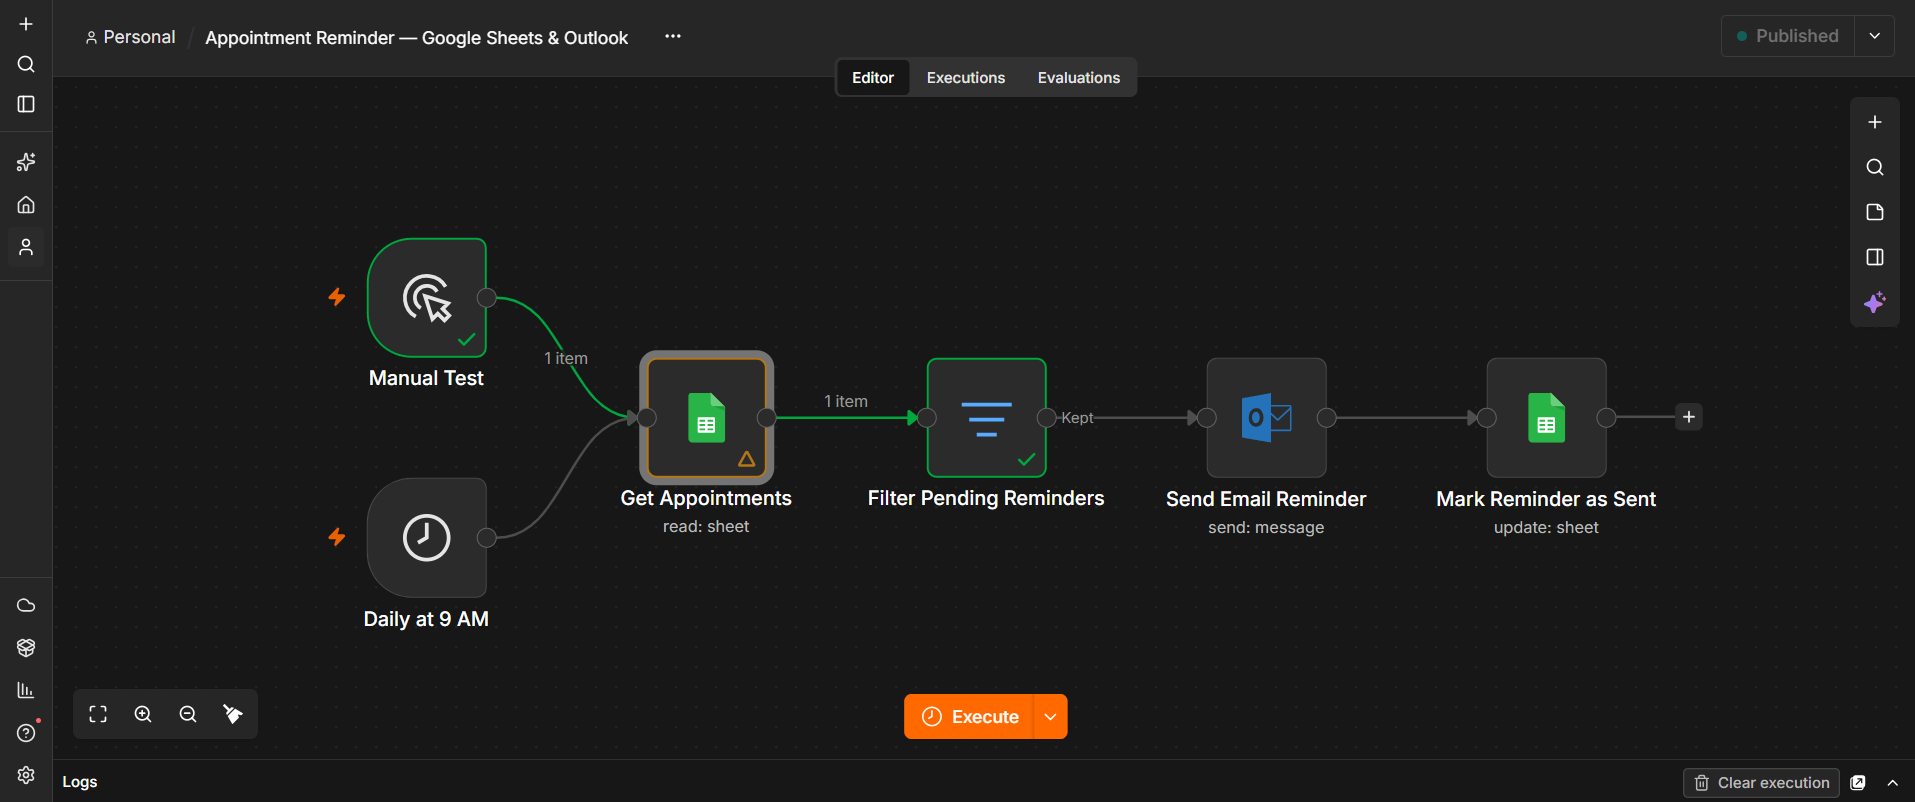
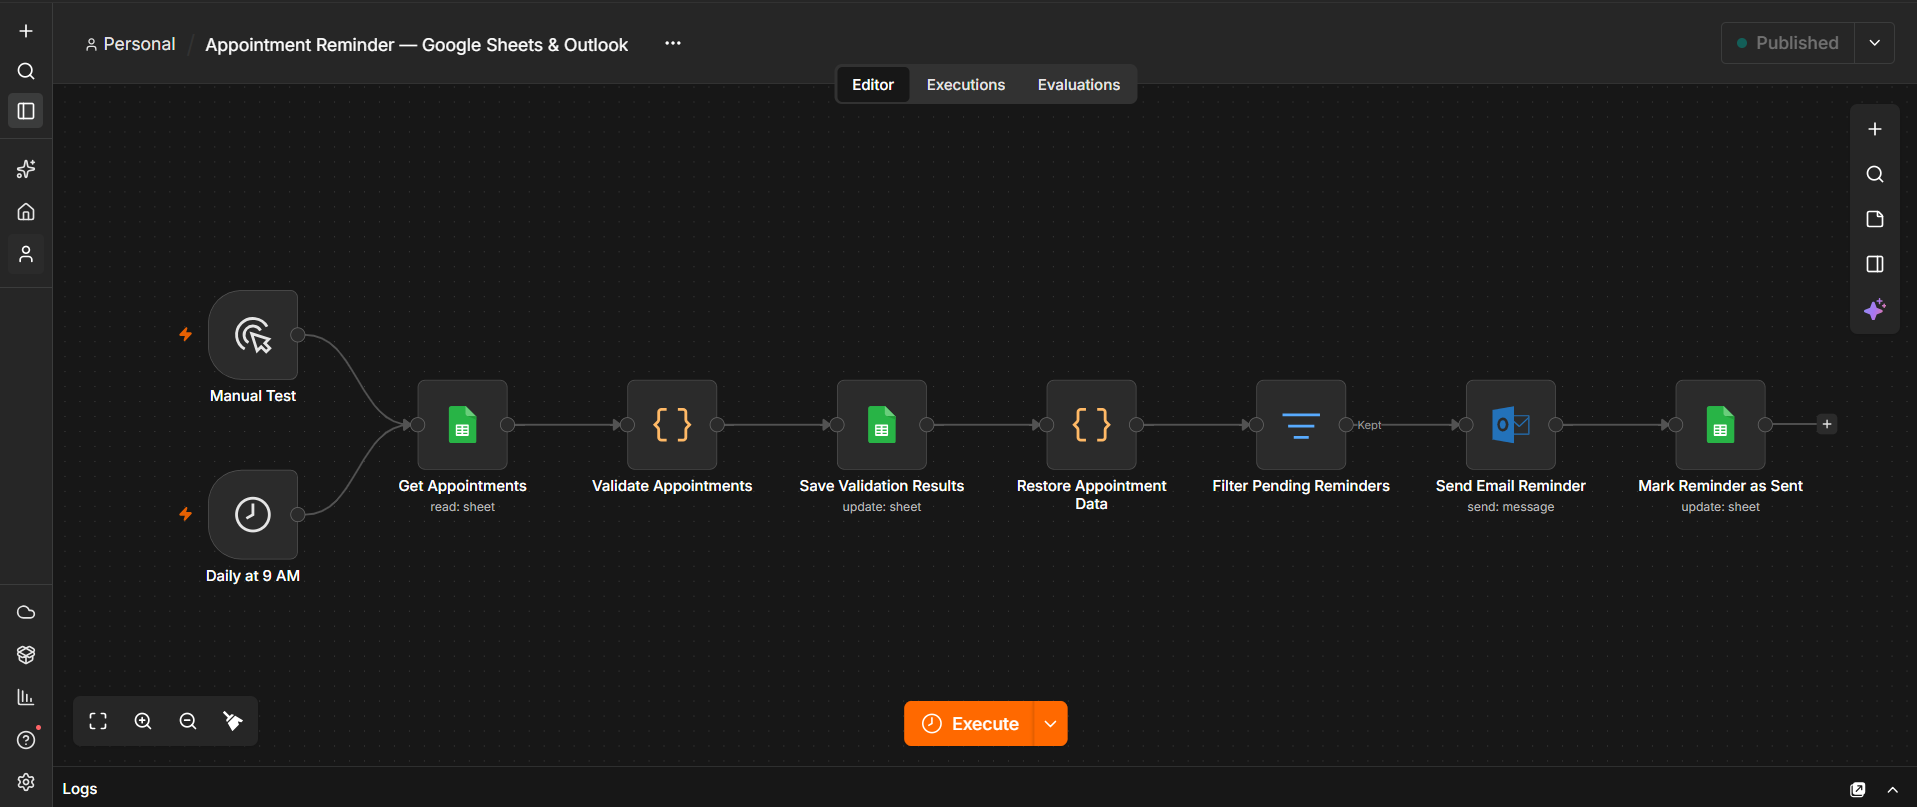
Update workflows, validation docs and screenshots

diff --git a/README.md b/README.md
@@ -1,54 +1,85 @@
 # Appointment Reminder
 
+Appointment reminder automation built with **n8n, Google Sheets and Microsoft Outlook**. Portfolio project with input validation, spreadsheet diagnostics and a separate error notification workflow.
+
 ## Business problem
 
-Appointment-based businesses often send reminders manually, which takes time and can lead to missed follow-ups.
-
-This project automates next-day email reminders and records their status in Google Sheets, reducing manual work and helping clients remember their appointments.
-
-Appointment reminder automation built with **n8n, Google Sheets and Microsoft Outlook**. Designed for appointment-based businesses such as salons and barbershops.
+Appointment-based businesses often send reminders manually. This workflow checks next-day appointments, sends personalized emails and records their status to reduce repetitive work.
 
 ## How it works
 
-1. Runs every day at **09:00 Europe/Dublin**, or manually for testing.
+1. Runs manually or daily at **09:00 Europe/Dublin**.
 2. Reads appointments from Google Sheets.
-3. Keeps rows where the appointment is tomorrow **AND** `reminder_sent` is `NO`.
-4. Sends a personalized email through Outlook.
-5. Matches the row by `appointment_id` and changes only `reminder_sent` to `YES`.
-6. 
+3. Validates IDs, email syntax and calendar dates; flags every occurrence of a duplicate ID.
+4. Saves `VALID`/`INVALID` and error details to the original spreadsheet row.
+5. Restores full appointment data using n8n item linking.
+6. Keeps appointments for tomorrow with `reminder_sent = NO` and `validation_valid = true`, using AND.
+7. Sends an Outlook reminder and marks the appointment `YES` by its unique ID.
+
+Invalid data is recorded and filtered out; it does not deliberately fail the workflow. Execution failures are handled separately by **Automation Error Alerts**, which emails the workflow name, failed node, error and execution link when available.
+
 ## Files
 
-- `appointment-reminder.json`: sanitized workflow template, inactive on import.
-- `appointments-example.csv`: fictional sample data for Google Sheets.
+- `appointment-reminder.json`: main workflow template.
+- `automation-error-alerts.json`: separate Error Trigger → Outlook workflow.
+- `appointments-example.csv`: fictional valid and invalid examples.
+
+Templates are inactive and contain no original credential references, spreadsheet identifiers, personal recipients, pinned customer data or instance metadata. The original error-workflow ID was removed: link the imported workflows manually.
 
 ## Setup
 
-1. Import the JSON into n8n.
-2. Create a Google spreadsheet and import the CSV into a tab named `Appointments`.
-3. Set `appointment_date` to tomorrow in `yyyy-MM-dd` format. Keep date and time columns as plain text for consistent comparisons. Replace the example email with your own test address.
-4. Select your Google Sheets credentials and your document/tab in **both** Google Sheets nodes.
-5. Select your Microsoft Outlook credentials in `Send Email Reminder`.
-6. Give every appointment a unique `appointment_id`. Use exactly `NO` for pending reminders and `YES` for sent reminders.
-7. Run `Manual Test`, confirm the email arrives and the sheet changes to `YES`.
-8. Run again: the Filter should discard the row and Outlook should not run. Remove any pinned test data before checking this.
-9. Confirm the workflow timezone is `Europe/Dublin`, then publish/activate it. Your n8n instance must be running at the scheduled time.
+1. Import both JSON files into a compatible n8n instance.
+2. Import the CSV into a Google Sheets tab named `Appointments`. Keep all nine column headers. Store dates as plain text in `yyyy-MM-dd` format and times as `HH:mm`.
+3. Change example appointment dates to tomorrow for your test, and replace example recipients with your own test email.
+4. Configure Google Sheets credentials, document and tab in **all three** Sheets nodes. If needed, refresh column mappings after selecting the sheet.
+5. In `Save Validation Results`, match `row_number` and update only `validation_status` and `validation_errors`.
+6. In `Mark Reminder as Sent`, match `appointment_id` and update only `reminder_sent`.
+7. Select Outlook credentials in both workflows. Set your alert recipient in `automation-error-alerts.json` through the node UI.
+8. Save/publish the error workflow as required by your n8n version. In the main workflow's Settings → Error Workflow, select the imported Automation Error Alerts workflow, save and publish the main workflow after testing.
+9. Confirm the main timezone is `Europe/Dublin` and schedule is 09:00 daily. The n8n instance must remain available for scheduled runs.
 
-## Validation performed on the original configured workflow
+Keep both Code nodes on **Run Once for All Items**, with **Execute Once disabled**. Keep normal stop-on-error behavior on critical steps. Do not pin old test data when verifying fresh spreadsheet values.
 
-- Google Sheets successfully returned the test appointment.
-- Outlook accepted the message and the test email arrived.
-- The update node returned `reminder_sent: YES`.
-- With both filter conditions present, the `YES` row was discarded.
+## Manual verification
 
-The sanitized template was checked as JSON; it must be configured and tested in your own n8n instance. Scheduled execution has not yet been observed.
+Run Get Appointments → Validate Appointments → Save Validation Results → Restore Appointment Data → Filter Pending Reminders first. Inspect Kept/Discarded before sending. Only use test recipients. After successful sends, run Mark Reminder as Sent and verify the matching rows in Google Sheets. Read fresh data and confirm sent appointments are discarded.
+
+To test failure notifications, use a separate temporary Schedule Trigger → Stop And Error workflow linked to the error workflow. Trigger it automatically, confirm the alert, then unpublish the temporary test. Manual executions do not exercise the automatic error-workflow path.
+
+## Tests observed during the guided build
+
+| Scenario | Observed result |
+|---|---|
+| Tomorrow + NO + valid data | Selected for reminder |
+| Already sent or another date | Discarded |
+| Two pending valid appointments | Two Outlook success responses; both corresponding IDs updated to YES |
+| Fresh read after those sends | Zero kept, eight discarded in that test dataset |
+| Empty email | Invalid; blocked |
+| Invalid date text | Invalid; blocked |
+| Two rows with the same ID | Both invalid; blocked |
+| Ten-row validation dataset | Six valid, four invalid; ten discarded with no eligible pending appointment |
+| Spreadsheet diagnostics | Validation status/errors written by row number |
+| Correct a missing email | Status changed to VALID and previous spreadsheet error cleared |
+| Intentional scheduled failure | Error alert email received with workflow, node, error and execution link |
+
+The final restored-data path was checked with ten records and no eligible sends. A positive end-to-end send through this final path has not yet been retested. These are guided manual tests of the original configured workflows, not automated tests or a production audit. Sanitized imports need a fresh configuration and test; regular 09:00 reminder execution has not been independently verified here.
 
 ## Scope and limitations
 
-This version sends email reminders; WhatsApp is a future enhancement. No AI model is required.
-
-The YES flag prevents repeat reminders after a successful update. Overlapping executions or a spreadsheet update failure after sending may still cause duplicates.
+- Email syntax validation does not establish mailbox existence or deliverability.
+- Missing IDs are checked in code but that case was not separately tested during this session.
+- Names, service, time format, cancellation status and unexpected reminder status values are not fully validated.
+- Row-number updates assume the sheet is not sorted or structurally edited during a run.
+- YES prevents routine sequential repeat sends after a successful update; concurrent runs or an update failure after sending can still cause duplicates. This is not an exactly-once system.
+- Outlook success indicates acceptance, not guaranteed final delivery.
+- Do not configure the error workflow to call itself. If Outlook itself is unavailable, the Outlook-based alert can fail too.
+- No automated retries, production monitoring SLA or WhatsApp integration is included.
+- Rescheduling requires reviewing/resetting the reminder status. Invalid rows require manual correction.
+- Hosting and connected accounts may have costs or quotas. No AI API is required.
 
 ## Screenshots
+
+These screenshots show the original workflow version; refresh them to show v1.3 validation nodes and diagnostics.
 
 ### Workflow overview
 ![Workflow overview](01-workflow-overview.png)
@@ -59,5 +90,5 @@ The YES flag prevents repeat reminders after a successful update. Overlapping ex
 ### Email reminder
 ![Email reminder](03-email-reminder.png)
 
-### Duplicate prevention
-![Duplicate prevention](04-duplicate-prevention.png)
+### Repeat-send filtering
+![Repeat-send filtering](04-duplicate-prevention.png)
